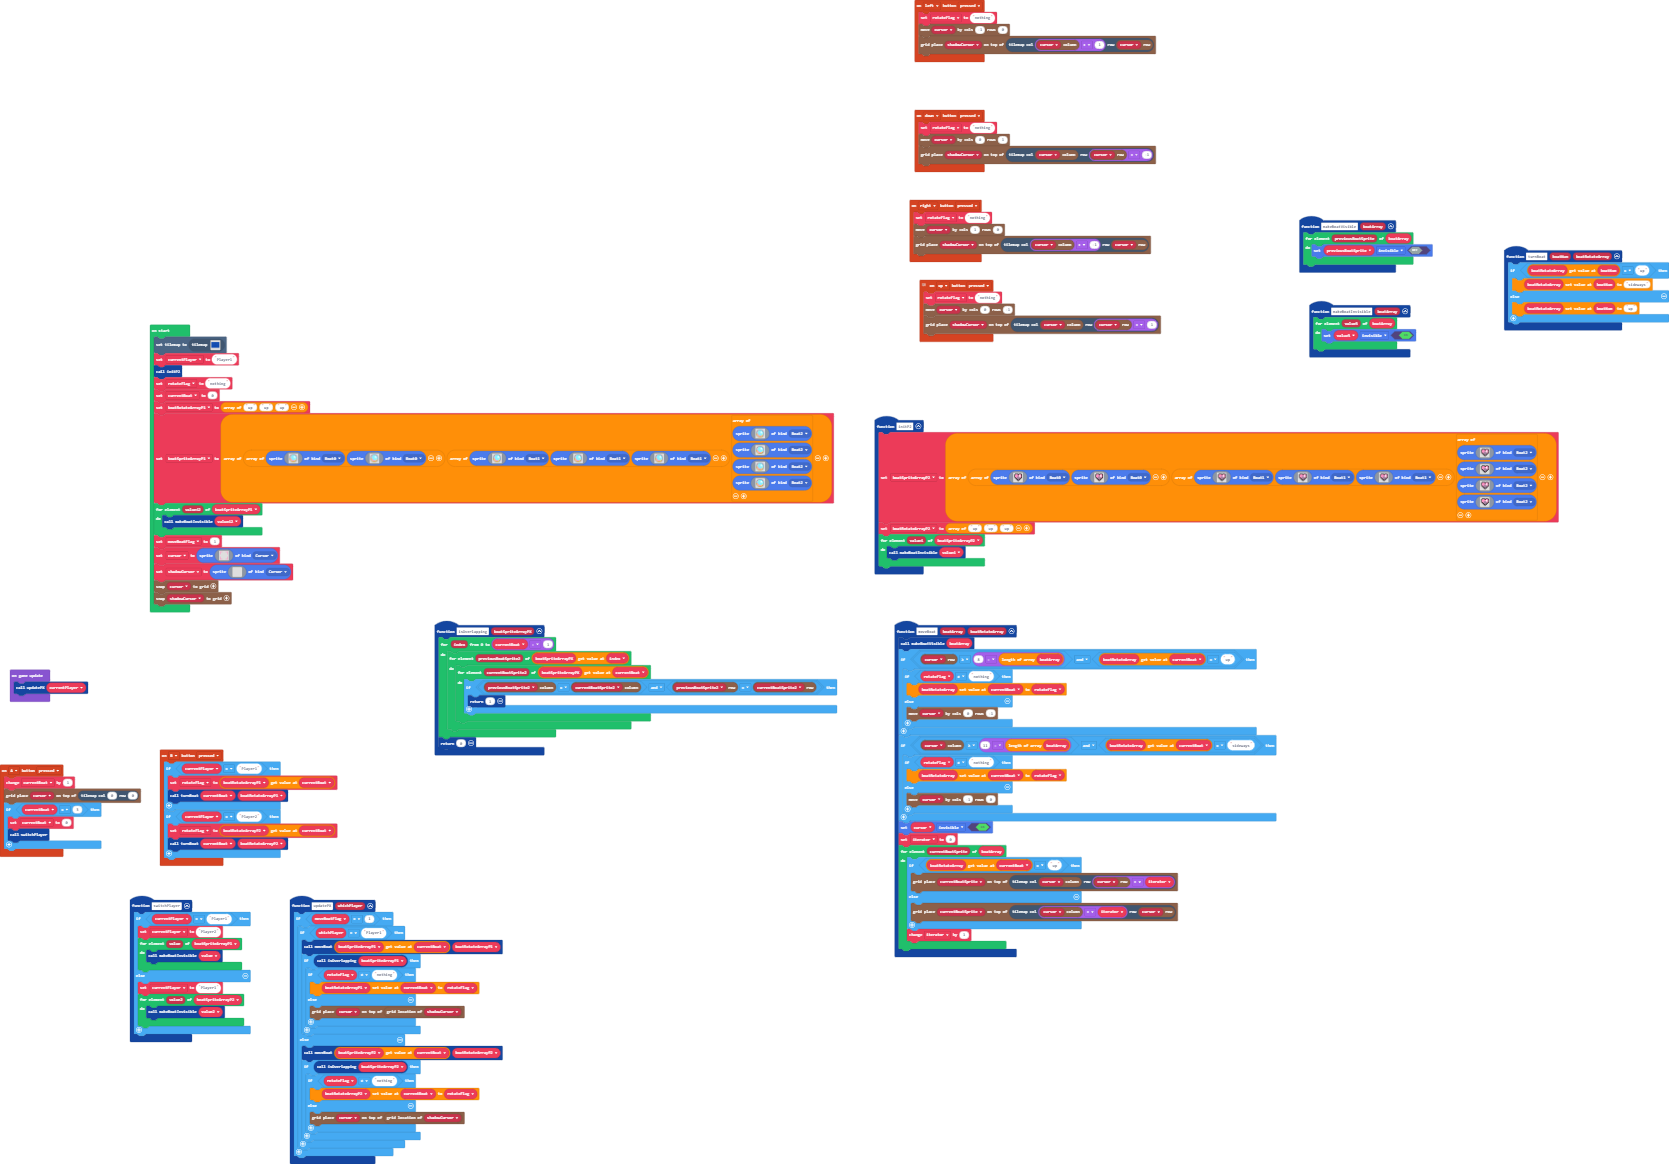
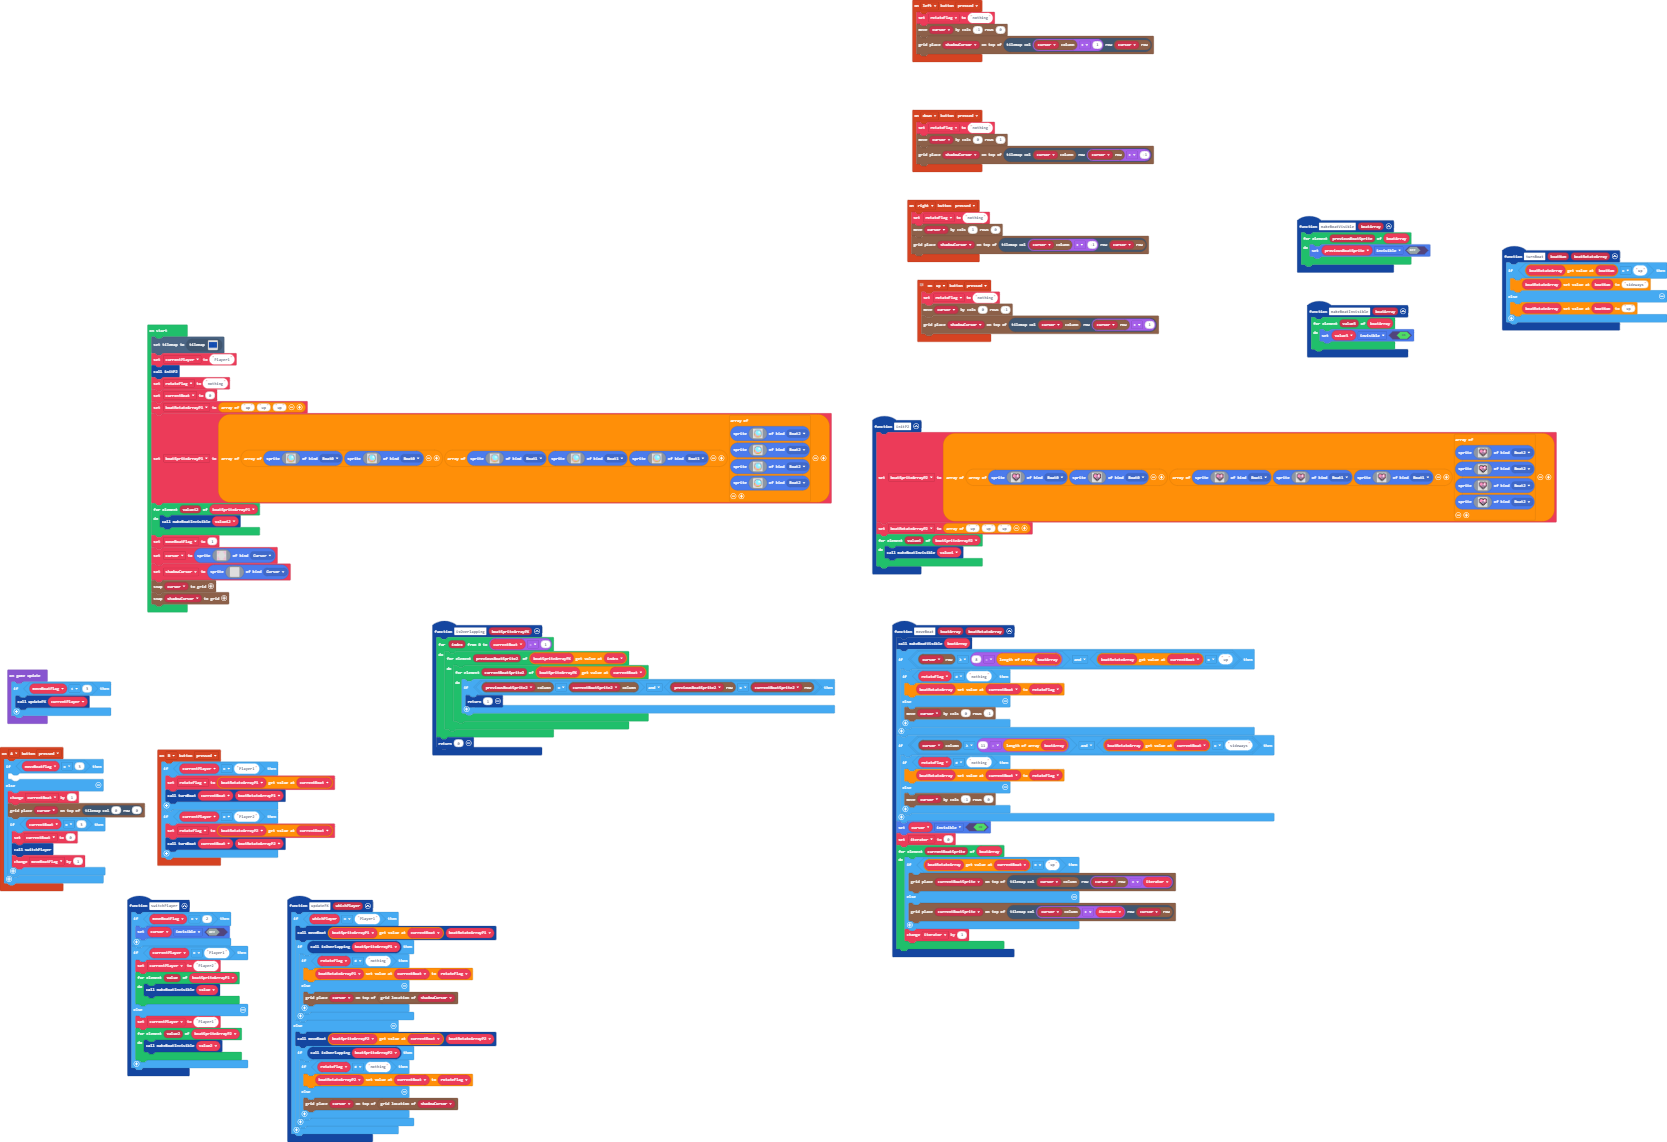
cursor turns on!

diff --git a/main.ts b/main.ts
@@ -11,24 +11,22 @@ controller.up.onEvent(ControllerButtonEvent.Pressed, function () {
     grid.place(shadowCursor, tiles.getTileLocation(grid.spriteCol(cursor), grid.spriteRow(cursor) + 1))
 })
 function updatePX (whichPlayer: string) {
-    if (moveBoatFlag == 1) {
-        if (whichPlayer == "Player1") {
-            moveBoat(boatSpriteArrayP1[currentBoat], boatRotateArrayP1)
-            if (isOverlapping(boatSpriteArrayP1)) {
-                if (rotateFlag != "nothing") {
-                    boatRotateArrayP1[currentBoat] = rotateFlag
-                } else {
-                    grid.place(cursor, grid.getLocation(shadowCursor))
-                }
+    if (whichPlayer == "Player1") {
+        moveBoat(boatSpriteArrayP1[currentBoat], boatRotateArrayP1)
+        if (isOverlapping(boatSpriteArrayP1)) {
+            if (rotateFlag != "nothing") {
+                boatRotateArrayP1[currentBoat] = rotateFlag
+            } else {
+                grid.place(cursor, grid.getLocation(shadowCursor))
             }
-        } else {
-            moveBoat(boatSpriteArrayP2[currentBoat], boatRotateArrayP2)
-            if (isOverlapping(boatSpriteArrayP2)) {
-                if (rotateFlag != "nothing") {
-                    boatRotateArrayP2[currentBoat] = rotateFlag
-                } else {
-                    grid.place(cursor, grid.getLocation(shadowCursor))
-                }
+        }
+    } else {
+        moveBoat(boatSpriteArrayP2[currentBoat], boatRotateArrayP2)
+        if (isOverlapping(boatSpriteArrayP2)) {
+            if (rotateFlag != "nothing") {
+                boatRotateArrayP2[currentBoat] = rotateFlag
+            } else {
+                grid.place(cursor, grid.getLocation(shadowCursor))
             }
         }
     }
@@ -49,11 +47,16 @@ function makeBoatVisible (boatArray: Sprite[]) {
     }
 }
 controller.A.onEvent(ControllerButtonEvent.Pressed, function () {
-    currentBoat += 1
-    grid.place(cursor, tiles.getTileLocation(0, 0))
-    if (currentBoat == 3) {
-        currentBoat = 0
-        switchPlayer()
+    if (moveBoatFlag == 3) {
+    	
+    } else {
+        currentBoat += 1
+        grid.place(cursor, tiles.getTileLocation(0, 0))
+        if (currentBoat == 3) {
+            currentBoat = 0
+            switchPlayer()
+            moveBoatFlag += 1
+        }
     }
 })
 controller.left.onEvent(ControllerButtonEvent.Pressed, function () {
@@ -62,6 +65,9 @@ controller.left.onEvent(ControllerButtonEvent.Pressed, function () {
     grid.place(shadowCursor, tiles.getTileLocation(grid.spriteCol(cursor) + 1, grid.spriteRow(cursor)))
 })
 function switchPlayer () {
+    if (moveBoatFlag == 2) {
+        cursor.setFlag(SpriteFlag.Invisible, false)
+    }
     if (currentPlayer == "Player1") {
         currentPlayer = "Player2"
         for (let value of boatSpriteArrayP1) {
@@ -527,5 +533,7 @@ shadowCursor = sprites.create(img`
 grid.snap(cursor)
 grid.snap(shadowCursor)
 game.onUpdate(function () {
-    updatePX(currentPlayer)
+    if (moveBoatFlag < 3) {
+        updatePX(currentPlayer)
+    }
 })

diff --git a/tilemap.g.ts b/tilemap.g.ts
@@ -17,6 +17,25 @@ namespace myTiles {
 . . . . . . . . . . 
 . . . . . . . . . . 
 `, [myTiles.transparency16,myTiles.tile1], TileScale.Sixteen);
+            case "level2":
+            case "level2":return tiles.createTilemap(hex`1000100000000000000000000000000000000000000000000000000000000000000000000000000000000000000000000000000000000000000000000000000000000000000000000000000000000000000000000000000000000000000000000000000000000000000000000000000000000000000000000000000000000000000000000000000000000000000000000000000000000000000000000000000000000000000000000000000000000000000000000000000000000000000000000000000000000000000000000000000000000000000000000000000000000000000000000000000000000000000000000000000000000000000000000000000000000000`, img`
+. . . . . . . . . . . . . . . . 
+. . . . . . . . . . . . . . . . 
+. . . . . . . . . . . . . . . . 
+. . . . . . . . . . . . . . . . 
+. . . . . . . . . . . . . . . . 
+. . . . . . . . . . . . . . . . 
+. . . . . . . . . . . . . . . . 
+. . . . . . . . . . . . . . . . 
+. . . . . . . . . . . . . . . . 
+. . . . . . . . . . . . . . . . 
+. . . . . . . . . . . . . . . . 
+. . . . . . . . . . . . . . . . 
+. . . . . . . . . . . . . . . . 
+. . . . . . . . . . . . . . . . 
+. . . . . . . . . . . . . . . . 
+. . . . . . . . . . . . . . . . 
+`, [myTiles.transparency16], TileScale.Sixteen);
         }
         return null;
     })
